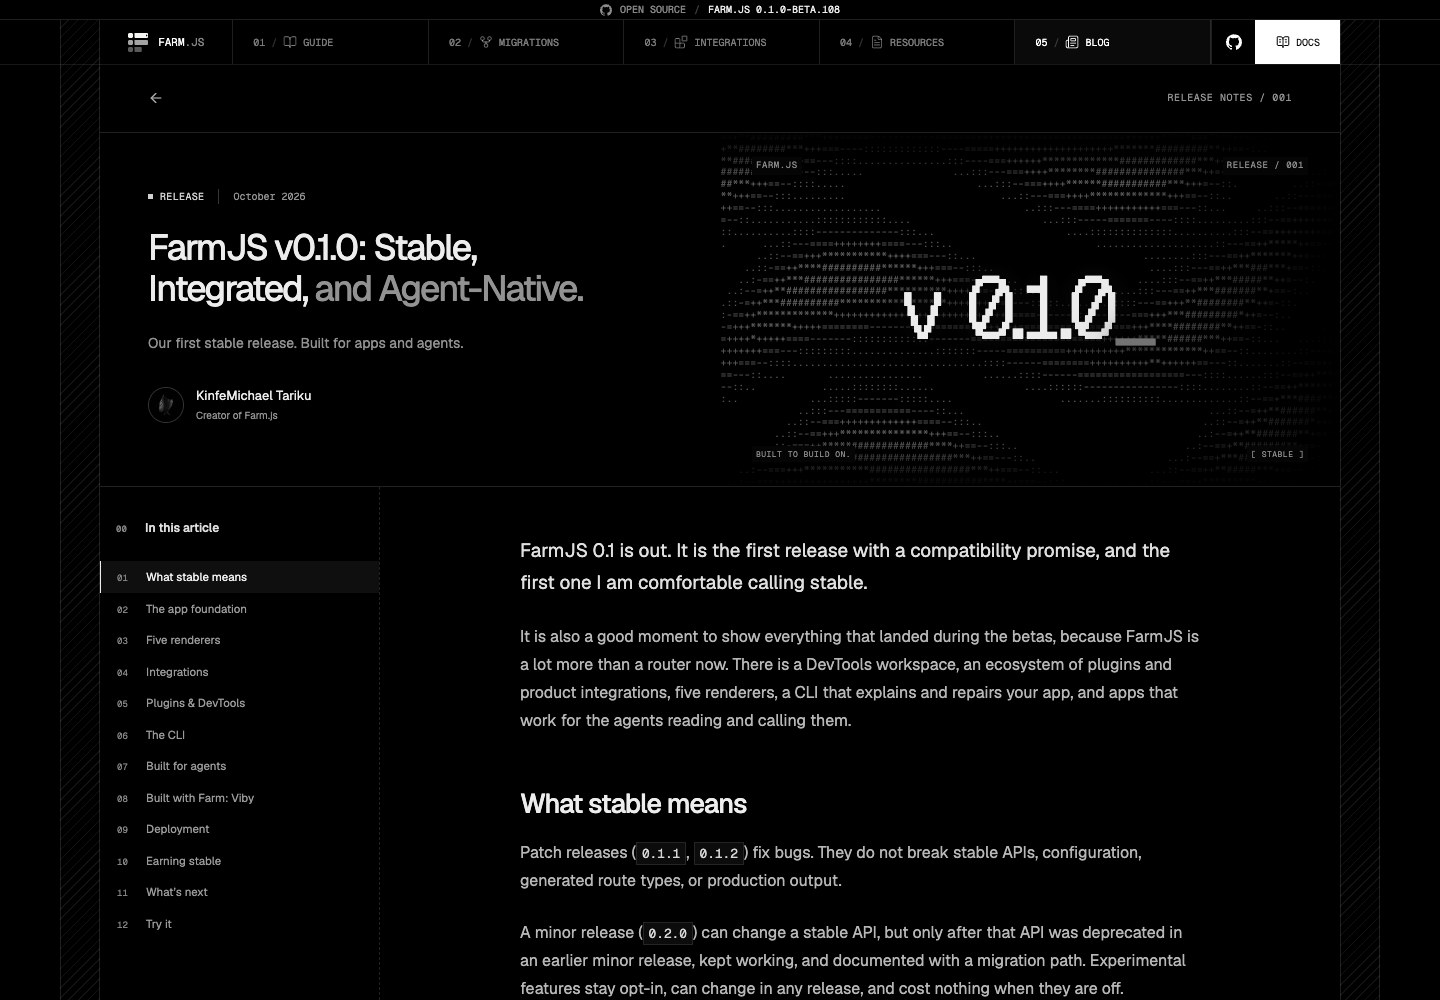
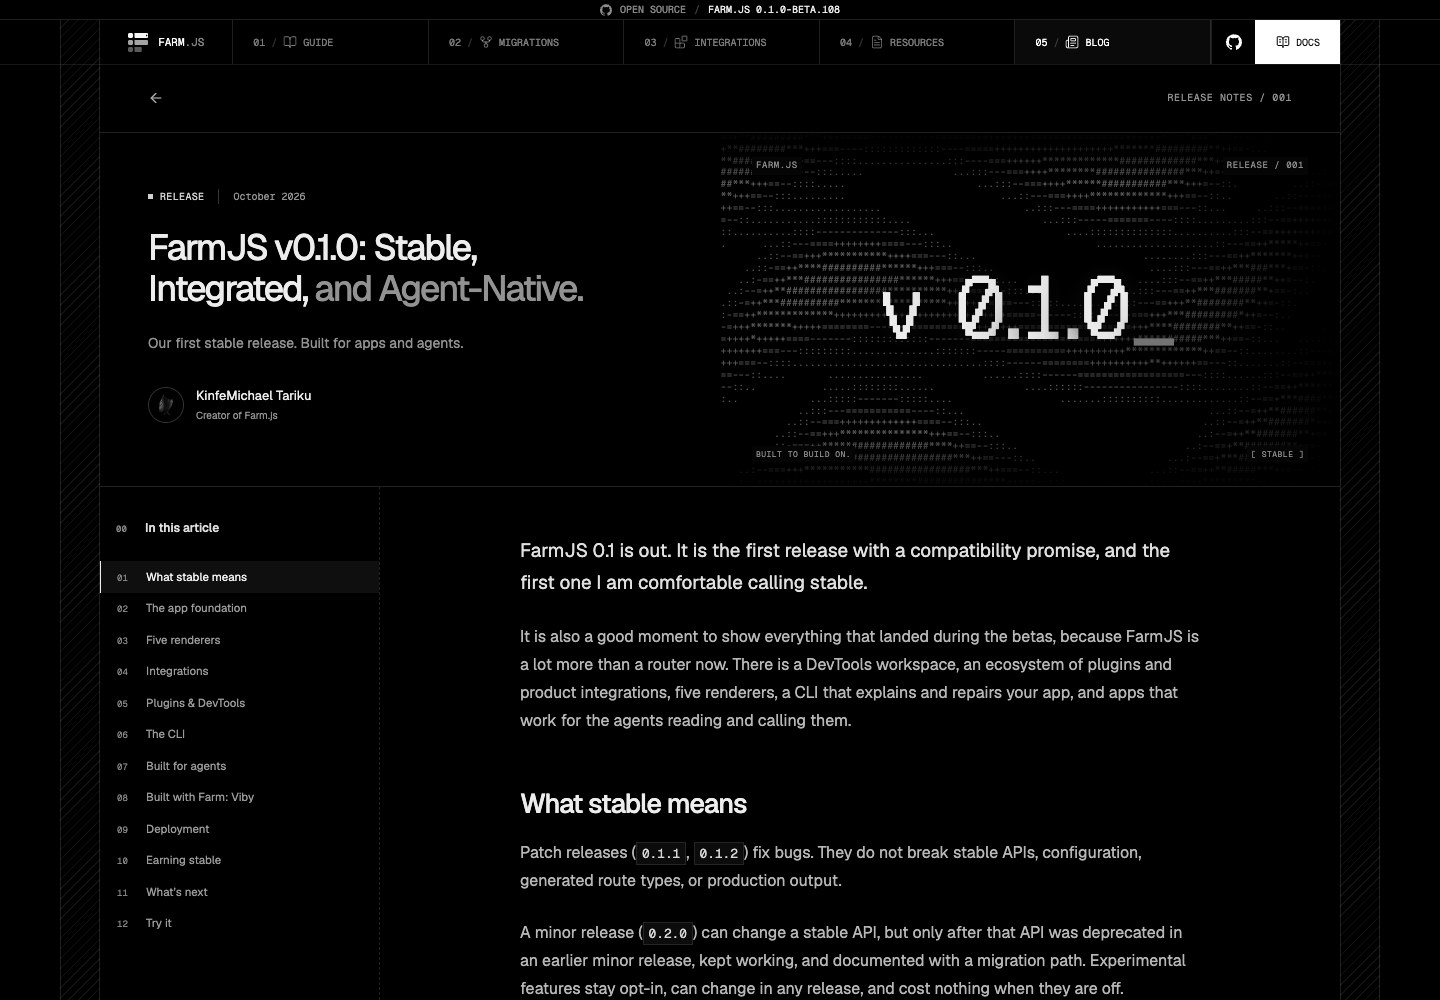
docs(blog): simplify labels and animate release lettering

diff --git a/tests/e2e-production-sites/docs.production.spec.ts b/tests/e2e-production-sites/docs.production.spec.ts
@@ -32,12 +32,16 @@ test("boots the emitted docs site and navigates into the guide", async ({ page }
   expect(browserErrors).toEqual([]);
 });
 
-test("blog connects the journal, article, contents, and Markdown mirror", async ({ page }) => {
+test("blog connects the index, article, contents, and Markdown mirror", async ({ page }) => {
   const browserErrors: string[] = [];
   page.on("pageerror", (error) => browserErrors.push(error.message));
   await page.emulateMedia({ reducedMotion: "reduce" });
   await page.goto("/blog");
-  await expect(page.getByRole("heading", { level: 1 })).toHaveText("The Farm journal.");
+  await expect(page.getByRole("heading", { level: 1 })).toHaveText("The Farm.js blog.");
+  await expect(page.getByRole("heading", { level: 2, name: /Latest posts/ })).toBeVisible();
+  await expect(page.locator(".blog-featured h3 br")).toHaveCount(0);
+  await expect(page.locator(".blog-featured h3 > span")).toHaveCSS("display", "inline");
+  await expect(page.locator(".blog-featured h3")).toHaveCSS("text-wrap", "balance");
   await expect(page.getByRole("link", { name: /Follow the releases/i })).toHaveCount(0);
   await expect(page.locator(".blog-art-version")).toHaveText("v 0.1.0_");
   await expect(page.locator(".blog-featured-bottom .blog-author-name")).toHaveText(
@@ -128,6 +132,75 @@ test("blog connects the journal, article, contents, and Markdown mirror", async 
   await page.getByRole("link", { name: "All posts" }).click();
   await expect(page).toHaveURL(/\/blog$/);
   expect(browserErrors).toEqual([]);
+});
+
+test("shared release artwork types once, blinks, and respects reduced motion on both pages", async ({
+  page,
+}) => {
+  for (const path of ["/blog", "/blog/farm-0-1"]) {
+    await page.emulateMedia({ reducedMotion: "no-preference" });
+    await page.goto(path);
+    await page.evaluate(() => document.fonts.ready);
+    const version = page.locator(".blog-art-version");
+    const digits = version.locator(".blog-art-digit");
+    await expect(digits).toHaveCount(5);
+    // First verify real playback finishes; then seek the CSS timeline to test each
+    // character and the final caret without timing-dependent sleeps.
+    await expect(digits.last()).toHaveCSS("opacity", "1");
+    await expect(digits.first()).toHaveCSS("animation-iteration-count", "1");
+    await expect(version.locator(".blog-art-caret")).toHaveCSS("animation-iteration-count", "1");
+    await expect(version.locator(".blog-art-prefix")).toHaveText("v ");
+    await expect(version.locator(".blog-art-cursor")).toHaveCSS(
+      "animation-iteration-count",
+      "infinite",
+    );
+    const bounds = await version.boundingBox();
+    for (let count = 0; count <= 5; count++) {
+      const frame = await version.evaluate(
+        (element, time) => {
+          for (const animation of element.getAnimations({ subtree: true })) {
+            animation.pause();
+            animation.currentTime = time;
+          }
+          const caret = element.querySelector(".blog-art-caret")!;
+          return {
+            visible: [...element.querySelectorAll(".blog-art-digit")]
+              .filter((digit) => getComputedStyle(digit).opacity === "1")
+              .map((digit) => digit.textContent)
+              .join(""),
+            prefixOpacity: getComputedStyle(element.querySelector(".blog-art-prefix")!).opacity,
+            caretOpacity: getComputedStyle(caret).opacity,
+            caretLeft: caret.getBoundingClientRect().left,
+            numberRight: element.querySelector(".blog-art-number")!.getBoundingClientRect().right,
+          };
+        },
+        400 + count * 200,
+      );
+      expect(frame.visible).toBe("0.1.0".slice(0, count));
+      expect(frame.prefixOpacity).toBe("1");
+      expect(frame.caretOpacity).toBe(count === 5 ? "1" : "0");
+      expect(frame.caretLeft).toBeCloseTo(frame.numberRight, 1);
+      expect(await version.boundingBox()).toEqual(bounds);
+    }
+    const cursor = version.locator(".blog-art-cursor");
+    for (const [time, opacity] of [
+      [1400, "1"],
+      [2000, "0"],
+      [2600, "1"],
+    ] as const) {
+      await cursor.evaluate((element, elapsed) => {
+        element.getAnimations()[0].currentTime = elapsed;
+      }, time);
+      await expect(cursor).toHaveCSS("opacity", opacity);
+    }
+    await page.emulateMedia({ reducedMotion: "reduce" });
+    expect(
+      await version.evaluate((element) => element.getAnimations({ subtree: true }).length),
+    ).toBe(0);
+    for (const digit of await digits.all()) await expect(digit).toHaveCSS("opacity", "1");
+    await expect(cursor).toHaveCSS("opacity", "1");
+    await expect(version).toHaveText("v 0.1.0_");
+  }
 });
 
 test("blog syntax highlighting is server-rendered and preserves every fenced code sample", async ({

diff --git a/docs/src/app/blog/blog.css b/docs/src/app/blog/blog.css
@@ -139,10 +139,9 @@
   font-size: clamp(26px, 2.5vw, 36px);
   line-height: 1.16;
   letter-spacing: -0.04em;
+  text-wrap: balance;
 }
 .blog-featured h3 > span {
-  display: block;
-  margin-top: 6px;
   color: #929292;
 }
 .blog-featured-copy > p {
@@ -210,7 +209,7 @@
 .blog-read-link svg {
   transition: transform 160ms ease-out;
 }
-/* Original ASCII field, rendered as text without a canvas or animation loop. */
+/* Original ASCII field, rendered as text without a canvas or JavaScript animation loop. */
 .blog-release-art {
   position: relative;
   display: grid;
@@ -243,11 +242,13 @@
 }
 .blog-art-version {
   position: relative;
+  display: inline-flex;
+  padding-right: 1ch;
   color: #ededed;
   font-family: var(--font-geist-pixel), monospace;
   font-size: clamp(36px, 14cqw, 88px);
   font-weight: 500;
-  letter-spacing: -0.065em;
+  letter-spacing: 0;
   white-space: nowrap;
   line-height: 1;
   text-shadow:
@@ -255,9 +256,50 @@
     0 0 40px #050505,
     0 0 60px #050505;
 }
+.blog-art-prefix {
+  white-space: pre;
+}
+.blog-art-number {
+  position: relative;
+  display: inline-flex;
+}
+.blog-art-caret {
+  position: absolute;
+  top: 0;
+  left: 100%;
+  pointer-events: none;
+}
 .blog-art-cursor {
   color: #737373;
   letter-spacing: 0;
+}
+@keyframes blog-type-digit {
+  from {
+    opacity: 0;
+  }
+  to {
+    opacity: 1;
+  }
+}
+@keyframes blog-cursor-blink {
+  0%,
+  100% {
+    opacity: 1;
+  }
+  50% {
+    opacity: 0;
+  }
+}
+@media (prefers-reduced-motion: no-preference) {
+  .blog-art-digit {
+    animation: blog-type-digit 200ms step-end both;
+  }
+  .blog-art-caret {
+    animation: blog-type-digit 200ms step-end 1100ms both;
+  }
+  .blog-art-cursor {
+    animation: blog-cursor-blink 1.2s step-end 1300ms infinite both;
+  }
 }
 .blog-art-label,
 .blog-art-caption {

diff --git a/docs/src/app/blog/page.tsx b/docs/src/app/blog/page.tsx
@@ -20,7 +20,7 @@ export default function BlogPage() {
             <IndexedLabel index="05" label="From the framework" />
           </div>
           <h1>
-            The Farm journal<span className="blog-title-period">.</span>
+            The Farm.js blog<span className="blog-title-period">.</span>
           </h1>
           <p className="blog-index-description">Releases, engineering notes, and ideas.</p>
         </div>
@@ -29,7 +29,7 @@ export default function BlogPage() {
       <section className="blog-featured-section" aria-labelledby="latest-title">
         <div className="blog-section-rule farm-full-rule">
           <h2 id="latest-title">
-            <IndexedLabel index="05.1" icon={Newspaper} label="Latest dispatch" />
+            <IndexedLabel index="05.1" icon={Newspaper} label="Latest posts" />
           </h2>
           <span className="blog-eyebrow">RELEASE NOTES / 001</span>
         </div>
@@ -40,12 +40,7 @@ export default function BlogPage() {
               <time dateTime={launchPost.dateTime}>{launchPost.date}</time>
             </div>
             <h3 id="featured-title">
-              FarmJS v0.1.0
-              <span>
-                Stable. Integrated.
-                <br />
-                Agent-native.
-              </span>
+              FarmJS v0.1.0: <span>Stable, Integrated, and Agent-Native.</span>
             </h3>
             <p>{launchPost.description}</p>
           </div>

diff --git a/docs/src/components/blog/release-artwork.tsx b/docs/src/components/blog/release-artwork.tsx
@@ -1,5 +1,5 @@
 // A deterministic character field keeps the illustration crisp in SSR and costs
-// no canvas, animation loop, image request, or client-side dependency.
+// no canvas, JavaScript animation loop, image request, or client-side dependency.
 const field = Array.from({ length: 56 }, (_, row) =>
   Array.from({ length: 112 }, (_, column) => {
     const x = column / 14;
@@ -32,7 +32,21 @@ export function ReleaseArtwork({ fullBleed = false }: { fullBleed?: boolean }) {
       </div>
       <pre className="blog-ascii-field">{field}</pre>
       <div className="blog-art-version">
-        v 0.1.0<span className="blog-art-cursor">_</span>
+        <span className="blog-art-prefix">v </span>
+        <span className="blog-art-number">
+          {"0.1.0".split("").map((character, index) => (
+            <span
+              className="blog-art-digit"
+              key={index}
+              style={{ animationDelay: `${300 + index * 200}ms` }}
+            >
+              {character}
+            </span>
+          ))}
+          <span className="blog-art-caret">
+            <span className="blog-art-cursor">_</span>
+          </span>
+        </span>
       </div>
       <div className="blog-art-caption">
         <span>BUILT TO BUILD ON.</span>

diff --git a/docs/src/app/blog/page.md b/docs/src/app/blog/page.md
@@ -1,11 +1,11 @@
 ---
-title: "Blog"
-description: "Releases, design notes, and engineering updates from the FarmJS team."
+title: "The Farm.js blog"
+description: "Releases, engineering notes, and ideas from the people building Farm.js."
 ---
 
-# Blog
+# The Farm.js blog
 
-Releases, design notes, and engineering updates from FarmJS.
+Releases, engineering notes, and ideas.
 
 ## [FarmJS v0.1.0: Stable, Integrated, and Agent-Native](/blog/farm-0-1)
 
